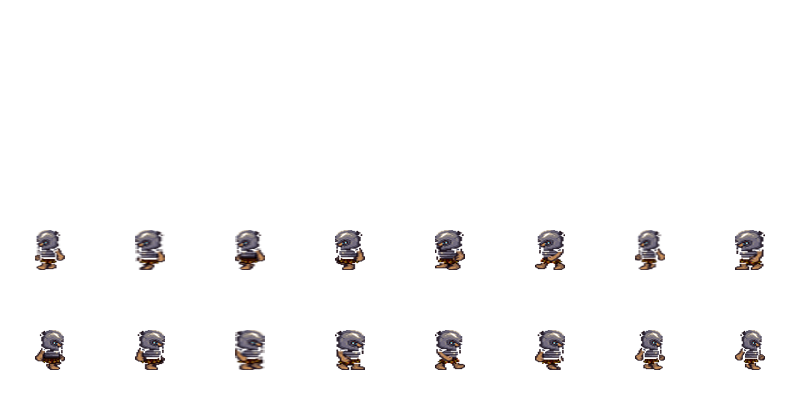
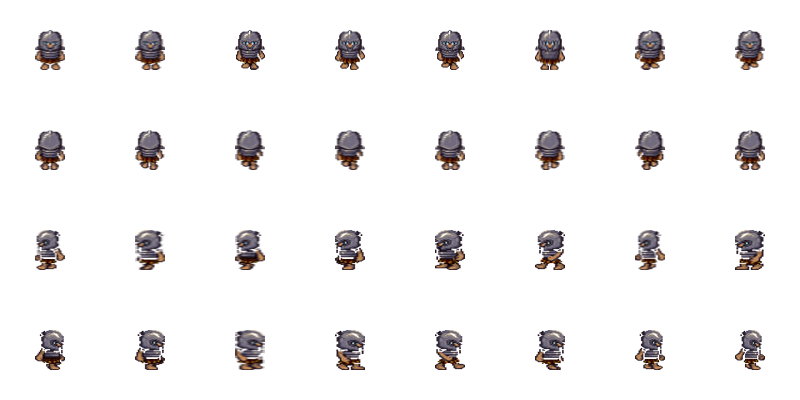
4방향 이동 구현

diff --git a/play_state.py b/play_state.py
@@ -1,6 +1,5 @@
 from pico2d import *
 import game_framework
-
 width, height = 1024, 684
 class Map:
     def __init__(self):
@@ -19,17 +18,19 @@ class Character:
     def update(self):
         self.frame = (self.frame + 1) % 8
         self.x += self.dir_x*0.3
+        self.y += self.dir_y*0.3
         if self.x > width:
             self.x = width
         elif self.x < 0:
             self.x = 0
-
+        elif self.y > height:
+            self.y = height
+        elif self.y < 0:
+            self.y =0
     def draw(self):
-        # if self.dir == 1:
-        #     self.image.clip_draw(self.frame*100, 100, 100, 100, self.x, self.y)
-        # else:
-        #     self.image.clip_draw(self.frame*100, 0, 100, 100, self.x, self.y)
+
         self.image.clip_draw(self.frame*100, 100*self.z, 100, 100, self.x, self.y)
+
 
 character = None
 map = None
@@ -52,8 +53,10 @@ def handle_events():
                 character.z = 1
             elif event.key == SDLK_UP:
                 character.dir_y += 1
+                character.z = 2
             elif event.key == SDLK_DOWN:
                 character.dir_y -= 1
+                character.dir_z = 3
         elif event.type == SDL_KEYUP:
             if event.key == SDLK_RIGHT:
                 character.dir_x -= 1

diff --git a/main.py b/main.py
@@ -6,15 +6,16 @@ import logo_state
 width, height = 1024, 683
 pico2d.open_canvas(width, height)
 
-state = play_state
+states = [play_state]
 
-state.enter()
+for state in states:
+    state.enter()
     # game main loop code
-while state.running:
-    state.handle_events()
-    state.update()
-    state.draw()
-state.exit()
+    while state.running:
+        state.handle_events()
+        state.update()
+        state.draw()
+    state.exit()
 
    # finalization code
 pico2d.close_canvas()
